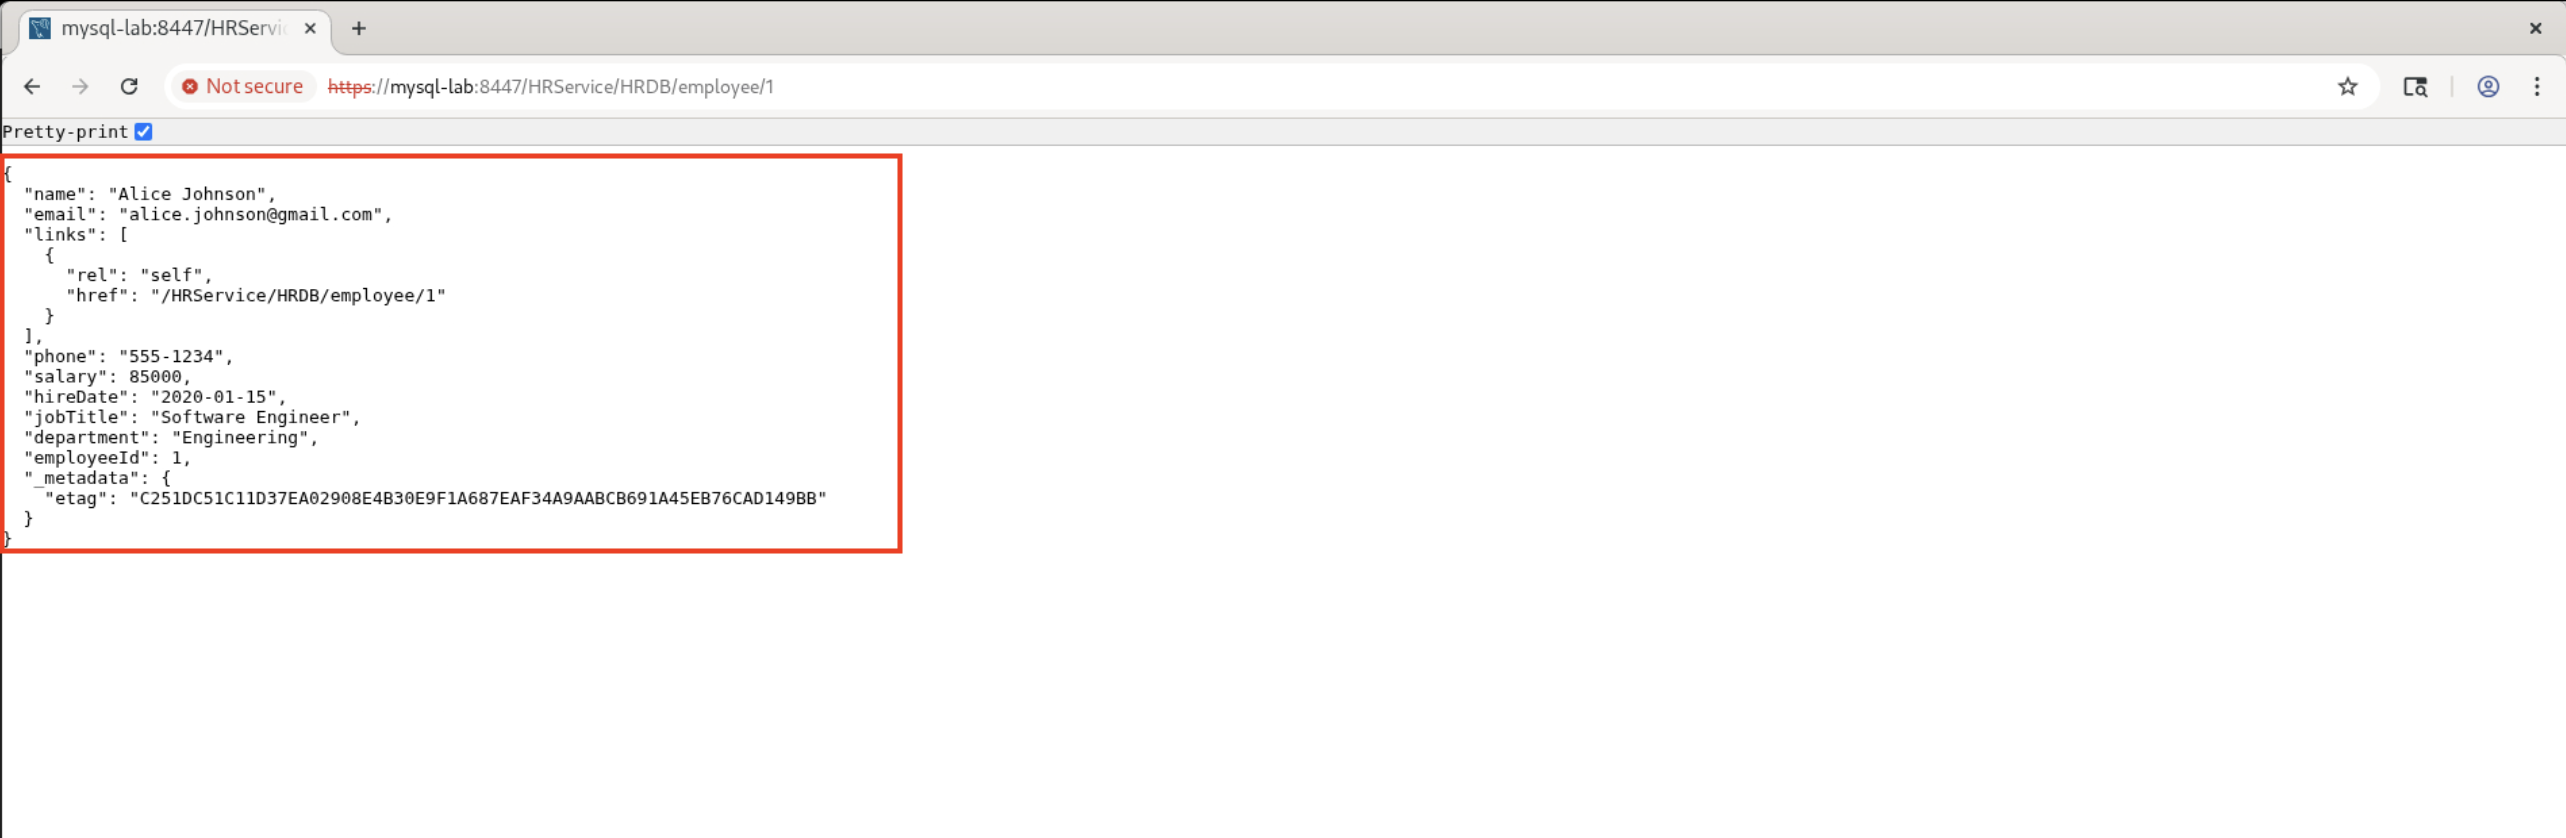
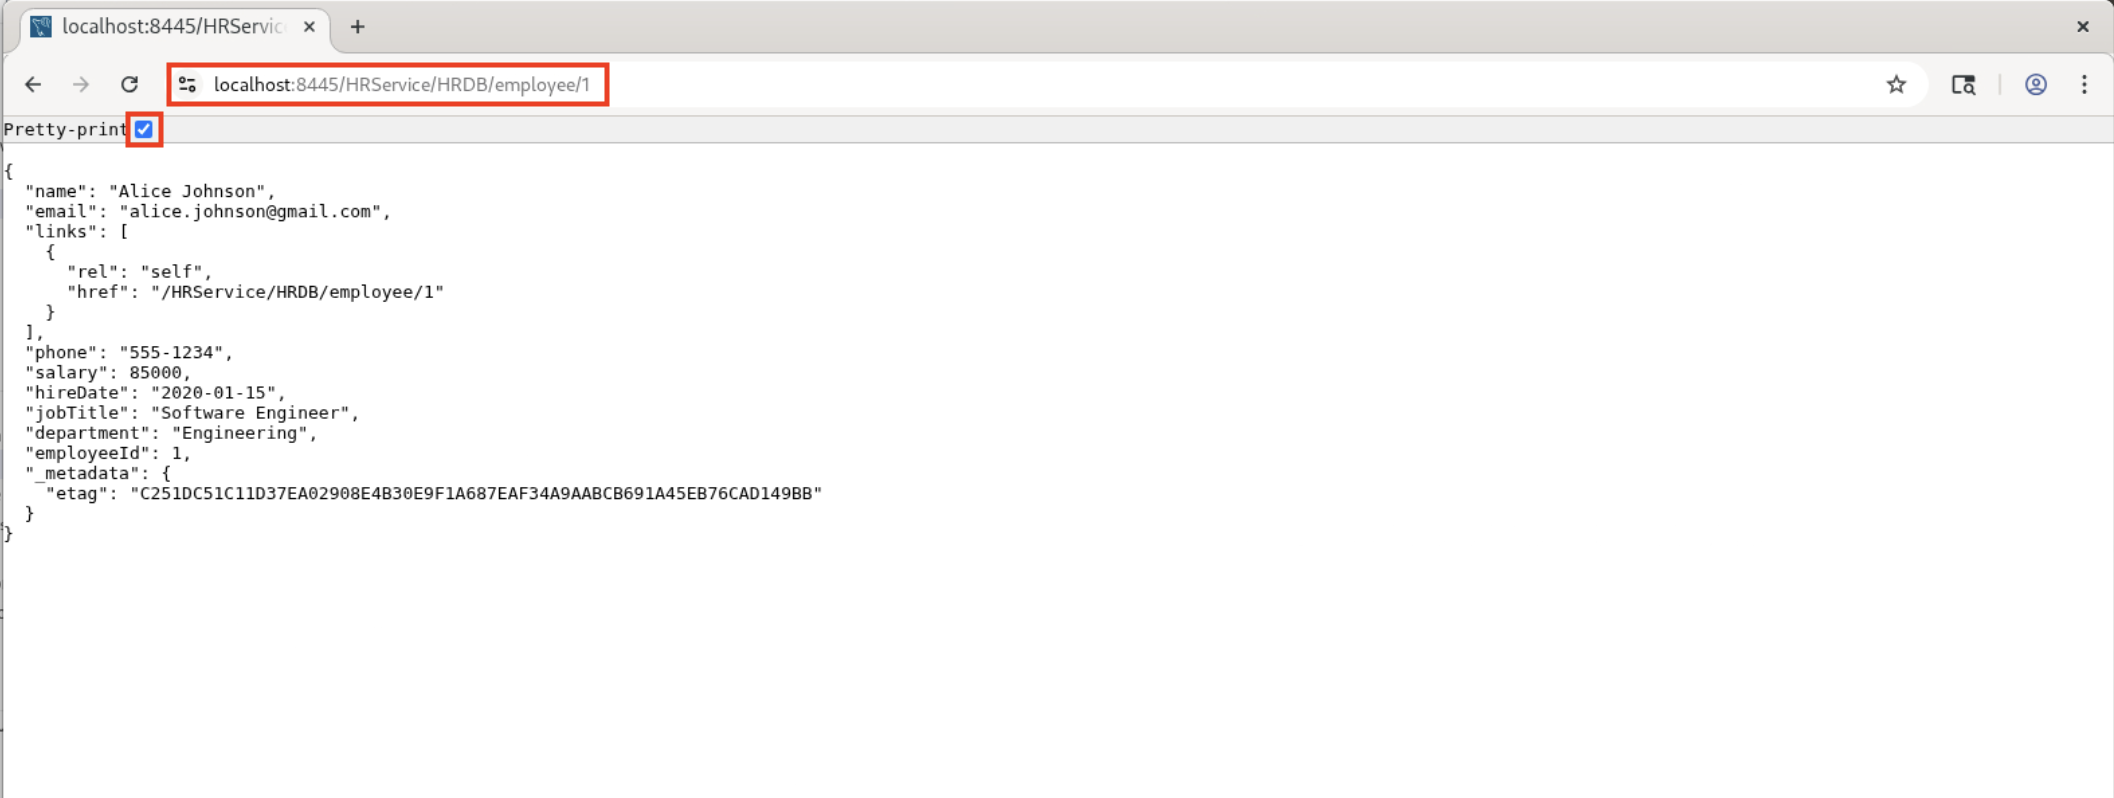
Adding Lab4: Swagger UI to test CRUD operations (#367)
* Adding lab Ops Insights for HeatWave MySQL

Adding lab Ops Insights for HeatWave MySQL

* Modifying the last update by and date

Modifying the last update by and date

* Changing the estimated time and adding images for better understanding

Changing the estimated time and adding images for better understanding

* Updating file path

* Modifying the estimated time and adding images for better understanding

Modifying the estimated time and adding images for better understanding

* Revert "Merge branch 'main' of https://github.com/SindhujaReddy-VT/em-omc"

This reverts commit 68e75fdfd948c29f77a0912cccf22e5e49ff81e2, reversing
changes made to dbb3770e308c8044d95abd5216186e54a984d35c.

* Create jekyll-docker.yml

* Adding lab MySQL connectors

* Wording changes

* Added Swagger UI to Test Rest Features Lab

* Updated images

Changed region(s): [[0.0, 0.0, 1.0, 0.6617], [0.9678, 0.0, 1.0, 0.0301], [0.9991, 0.0602, 1.0, 0.0902]]

diff --git a/mysql/accelerate-app-development-with-low-code/b-lab-one-mysql-rest-service/mrs.md b/mysql/accelerate-app-development-with-low-code/b-lab-one-mysql-rest-service/mrs.md
@@ -8,14 +8,14 @@ With seamless support for SQL, Javascript, and TypeScript right inside the famil
 
 In this lab, you'll learn how to connect to a MySQL DB system using the MySQL Shell extension in Visual Studio Code. This setup is especially useful if you are working in a development environment and prefer using VS code interface to manage your databases.
 
-Estimated time: 25 minutes
+Estimated time: 30 minutes
 
 ### Objectives
 
 * Connect to a MySQL DB system using MySQL Shell extension for VS Code
 * Create a sample employee table
 * Enable MySQL Rest Service (MRS)
-* Perform CRUD operations using curl via REST API
+* Perform CRUD operations using OpenAPI Web UI
 
 ## Task 1: Connect to a MySQL DB system using MySQL Shell extension for VS Code
 
@@ -129,66 +129,135 @@ Estimated time: 25 minutes
 
      ![Configure MRS](./images/configure-mrs.png " ")
 
-2. After MRS has been configured, a new REST Service can be added. Expand MySQL Rest Service database connection to right click the MySQL REST Service entry and select **Add REST Service**.
+2. Click **OK** to configure instance for MySQL Rest Service Support. Uncheck create default REST authentication app.
+
+     ![Configure Rest](./images/configure-rest.png " ")
+
+3. After MRS has been configured, a new REST Service can be added. Expand MySQL Rest Service database connection to right click the MySQL REST Service entry and select **Add REST Service**.
 
      ![Add Rest Service](./images/add-rest-service.png " ")
 
-3. Fill in the Rest Service Path as **/HRService** and Rest Service Name as **HRService** and click on **OK**.
+4. Fill in the Rest Service Path as **/HRService** and Rest Service Name as **HRService** and click on **OK**.
 
      ![Enter Details](./images/add-rest-service-details.png " ")
 
-4. Once created, you will see HRService Rest Service under MySQL Rest Service entry.
+5. Once created, you will see HRService Rest Service under MySQL Rest Service entry.
 
      ![Added Rest Service](./images/rest-service-added.png " ")
 
-5. To add a MySQL database schema to the MRS Service with MySQL Shell for VS Code, simply right click on schema **HRDB** in the DATABASE CONNECTIONS view and select **Add Schema to REST Service** from the popup menu.
+6. To add a MySQL database schema to the MRS Service with MySQL Shell for VS Code, simply right click on schema **HRDB** in the DATABASE CONNECTIONS view and select **Add Schema to REST Service** from the popup menu.
 
      ![Add Schema](./images/add-schema.png " ")
 
-6. Once clicked, a new dialog window appears to fill the required details. Once filled, click on OK to add schema to the REST service.
+7. Once clicked, a new dialog window appears to fill the required details. Once filled, click on OK to add schema to the REST service.
 
      ![Add Rest Schema](./images/add-schema-rest.png " ")
 
-7. In the next step, a MySQL table can be added. Right click on the table **employee** in the DATABASE CONNECTIONS view and select **Add Database Object to REST Service** from the popup menu.
+8. In the next step, a MySQL table can be added. Right click on the table **employee** in the DATABASE CONNECTIONS view and select **Add Database Object to REST Service** from the popup menu.
 
      ![Add Data Object](./images/add-data-object-schema.png " ")
 
-8. A new dialog box appears to fill the required details.
+9. A new dialog box appears to fill the required details.
 
      ![Add Data Object Schema](./images/add-data-object-schema-1.png " ")
 
-9. Ensure the desired **CRUD** operations are selected (READ is selected by default) and uncheck **Requires Authentication flag** to make the object publicly available.
+10. Ensure the desired **CRUD** operations are selected (READ is selected by default) uncheck **Requires Authentication flag** to make the object publicly available.
 
      ![Add Data Object Schema](./images/add-data-object-schema-2.png " ")
 
-10. The MySQL Shell for VS Code extension ships with the **MySQL Router** included and can be used to bootstrap and starting the MySQL Router. Right click the MySQL REST Service tree item and select **Boostrap Local MySQL Router Instance**.
+11. The MySQL Shell for VS Code extension ships with the **MySQL Router** included and can be used to bootstrap and starting the MySQL Router. Right click the MySQL REST Service tree item and select **Boostrap Local MySQL Router Instance**.
 
      ![Bootstrap Instance](./images/bootstrap-instance.png " ")
 
-11. It opens the terminal where you can enter DB Connection's password as **Welcome$1** and JSON Web Token (JWT) secret as **Welcome$1**. Please note that this JWT secret always needs to be the same for every MySQL Router instance when deploying multiple routers for the same MySQL solution.
+12. It opens the terminal where you can enter DB Connection's password as **Welcome$1** and JSON Web Token (JWT) secret as **Welcome$1**. Please note that this JWT secret always needs to be the same for every MySQL Router instance when deploying multiple routers for the same MySQL solution.
 
      ![Bootstrap User](./images/bootstrap-user.png " ")
 
      ![JWT Secret](./images/jwt-secret.png " ")
 
-12. As soon as the MySQL Router is bootstrapped, right click the MySQL Rest service tree item and click on **Start Local MySQL Router Instance**.
+13. As soon as the MySQL Router is bootstrapped, right click the MySQL Rest service tree item and click on **Start Local MySQL Router Instance**.
 
      ![Start Local Instance](./images/start-local-instance.png " ")
 
-13. Now that a MySQL REST Service has been created and the MySQL Router has been started we can access the REST endpoints with a web browser.
+14. Now that a MySQL REST Service has been created and the MySQL Router has been started we can access the REST endpoints with a web browser.
 
     ![Started Local Instance](./images/started-local-instance.png " ")
 
-14. Access the APIs using the URL **https://mysql-lab:8447/HRService/HRDB/employee**.
+15. Access the APIs using the URL **https://localhost:8445/HRService/HRDB/employee**.
 
      ![Output](./images/chrome-output.png " ")
 
-15. Adding a Primary Key value to the **request path (e.g. /1)** will filter the result to a single data set.
+16. Adding a Primary Key value to the **request path (e.g. /1)** will filter the result to a single data set.
 Adding offset and limit as query parameters allow you to page the full data set. The default page size can be set in the REST Schema and REST Object settings.
 
      ![Employees](./images/employee-1.png " ")
 
-16. For further details you can right click MySQL Rest service tree and click on **Browse the MySQL Rest Service Documentation**.
+## Task 4: Deploy OpenAPI Web UI and Test CRUD Operations
+
+1. Go back to the VS Code window. Under the database connection, right click on the service and select **Deploy OpenAPI Web UI** which will expose your REST endpoints through a browsable OpenAPI-based UI.
+
+     ![Open API](./images/open-api.png " ")
+
+2. Once the deployment window opens, leave all the default values as they are and simply click **OK** to proceed. This will trigger the deployment of your service and make the OpenAPI-based Web UI available for interaction.
+
+     ![Open API Window](./images/open-api-dialog.png " ")
+
+3. After deployment completes access the Web UI. Open in your browser to launch OpenAPI Web UI, where you can test and explore the REST endpoints for your HR service **https://localhost:8445/myService/openApiUi/#/**.
+
+     ![Swagger UI](./images/swagger-ui.png " ")
+
+4. Once the Web UI loads, you'll see a list of available endpoints grouped by HTTP methods. You can expand each one to try them.
+
+     * **GET** /employee – List employees
+     * **POST** /employee – Create employee
+     * **PUT** /employee/{employeeId} – Update employee
+     * **DELETE** /employee/{employeeId} – Delete employee
+
+5. **Get** method retrieves all employees. Scroll to the **GET /HRService/HRDB/employee** endpoint and expand the menu. Click **Try it out**.
+
+     ![Swagger Get Request](./images/swagger-ui-get.png " ")
+
+6. Then click on **Execute**. You'll get a list of current employees from the HR service in the response section below.
+
+     ![Swagger Get Response](./images/swagger-ui-get-response.png " ")
+
+7. **Post** method adds a new employee. Scroll to the **POST /HRService/HRDB/employee** endpoint and expand the menu. Click **Try it out**.
+
+     ![Swagger Post Request](./images/swagger-post.png " ")
+
+8. In the Request body, enter the details as shown. Here intentionally I added wrong email to modify later in the PUT request. Click **Execute** to submit the new employee record.
+
+     ![Swagger Post Response](./images/swagger-post-request.png " ")
+
+9. After that check the output of **https://localhost:8445/HRService/HRDB/employee** on the other chrome tab to see the new employee added in the list.
+
+     ![Chrome Output](./images/chrome-post.png " ")
+
+10. **Delete** method removes an employee. Scroll to the **DELETE /HRService/HRDB/employee/{employeeId}** endpoint and expand the menu. Click **Try it out**.
+
+     ![Swagger Delete Request](./images/swagger-delete.png " ")
+
+11. In the parameters, enter the employee ID to delete (e.g., 5 in this example), then click **Execute**.
+
+     ![Swagger Delete Response](./images/swagger-delete-request.png " ")
+
+12. After that check the output of **https://localhost:8445/HRService/HRDB/employee** on the other chrome tab where the deleted record should no longer appear in the list.
+
+     ![Chrome Output](./images/chrome-delete.png " ")
+
+13. **Put** method updates an existing employee. Scroll to the **PUT /HRService/HRDB/employee/{employeeId}** endpoint and expand the menu. Click **Try it out**.
+
+     ![Swagger Put Request](./images/swagger-put.png " ")
+
+14. In the parametersm enter the employee ID to update as 6. In the Request body, make changes to the email and salary fields leaving rest of the fields with their previous values. Once done, click **Execute** to update the employee record.
+
+     ![Swagger Put Response](./images/swagger-put-request.png " ")
+
+15. After that check the output of **https://localhost:8445/HRService/HRDB/employee** on the other chrome tab to look for the updated details in the response.
+
+     ![Chrome Output](./images/chrome-put.png " ")
+
+16. For further details you can right click MySQL Rest service tree in the Visual Studio Code and click on **Browse the MySQL Rest Service Documentation**.
 
      ![Documentation](./images/documentation.png " ")
 
@@ -196,4 +265,4 @@ Adding offset and limit as query parameters allow you to page the full data set.
 
 * **Author** - Sindhuja Banka, HeatWave MySQL Product Manager
 * **Contributors** - Sindhuja Banka, Anand Prabhu
-* **Last Updated By/Date** - Sindhuja Banka, July 2025
+* **Last Updated By/Date** - Sindhuja Banka, August 2025

diff --git a/mysql/accelerate-app-development-with-low-code/a-introduction/introduction.md b/mysql/accelerate-app-development-with-low-code/a-introduction/introduction.md
@@ -12,11 +12,10 @@ Estimated time: 90 minutes
 
 Throughout this guided session, you'll work through a series of practical tasks and real-world exercises that highlight key features and capabilities of MySQL Enterprise Edition, including:
 
-- Creating and deploying RESTful applications using MySQL REST Services for seamless data access over HTTP
-- Key MySQL features such as JSON support, Full-Text Search, Encryption, and Compression to help you develop secure and flexible solutions
+- Creating and deploying RESTful applications using MySQL REST Services for seamless data access over HTTPS
 - Using JavaScript Stored Procedures to add server-side logic and integrate MySQL with full-stack applications
 - Using MySQL Connectors in Python and Java
-- Exploring how to rapidly build low-code apps with Oracle APEX using MySQL REST Services endpoints
+- Key MySQL features such as JSON support, Full-Text Search, Encryption, and Compression to help you develop secure and flexible solutions
 
 By the end of this workshop, you'll have a solid foundation in MySQL Enterprise Edition and be able to start building your own databases and applications with low code. Our goal is to provide you with a comprehensive and practical introduction to MySQL Enterprise Edition.
 
